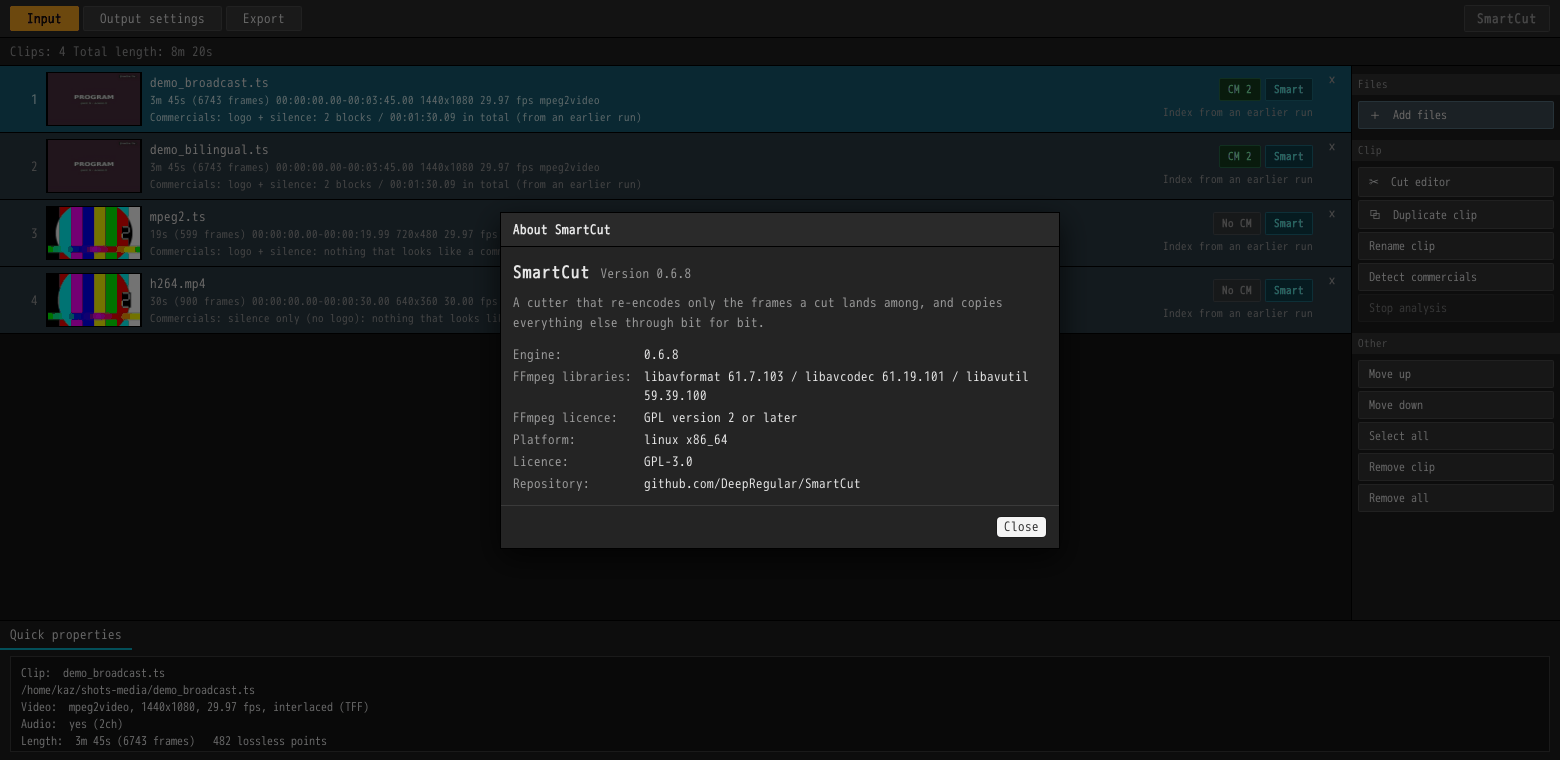
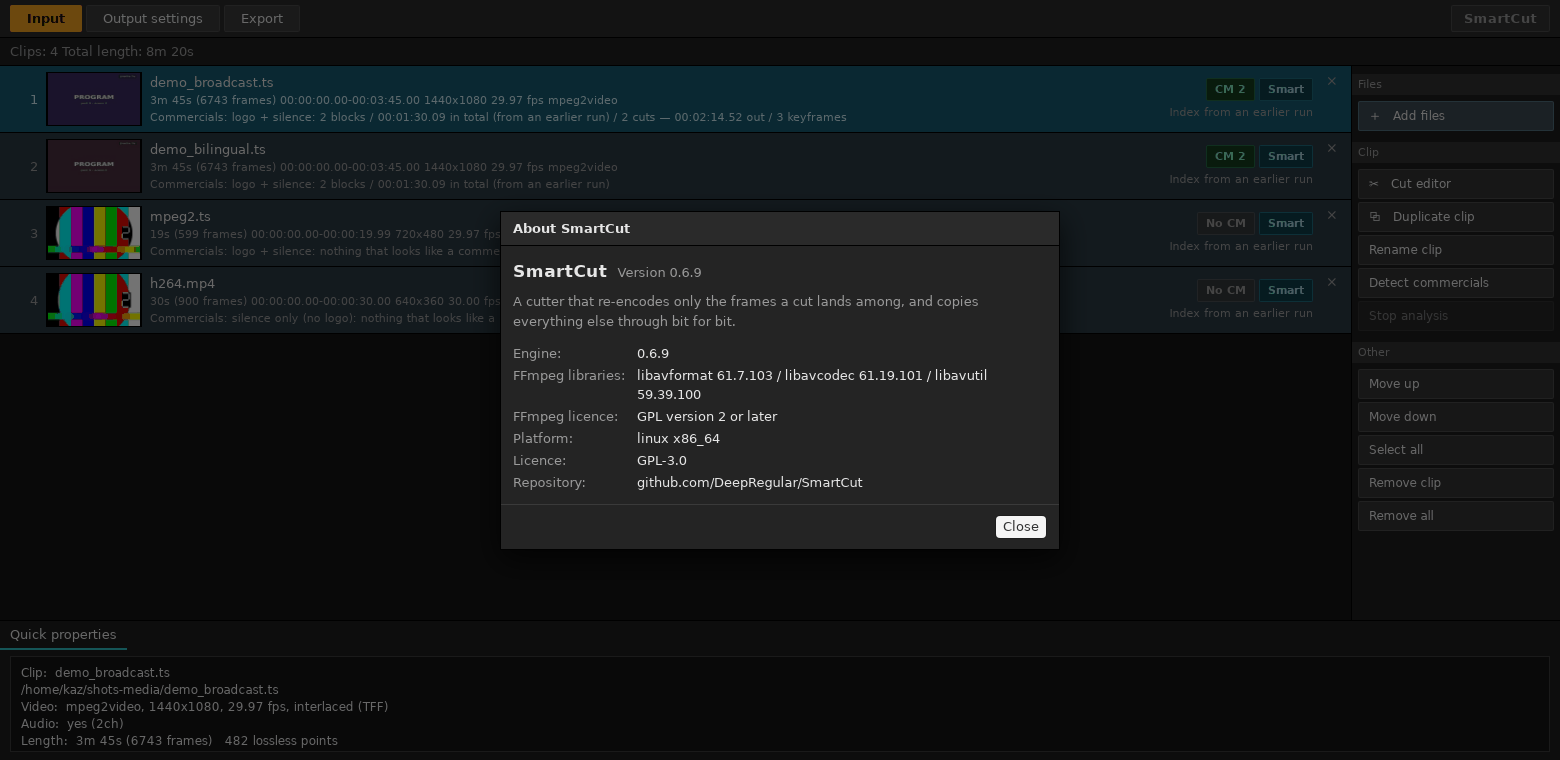
Version 0.6.9
Everything that made the program feel slower than it is. A cut of a `.ts` is
written twice -- the muxer writes it, then the pass that puts the broadcast's
own tables back reads all of it and writes all of it again -- and the second
pass had never said so: **twenty-nine per cent of the run, after the run
appeared to be over**. The disc index pass had the same fault for three
quarters of its work, where the arrival times are written and nothing was
reported at all.

Then the other direction. Writing a disc image said something every megabyte,
which on a 20 GB disc is twenty thousand messages for a bar with a hundred
steps; the pass that reads a stream back for its entry points counted packets
rather than bytes and managed five reports in 617 MB. How often a pass says
where it is is now one rule for all of them, and the output screen stops
rebuilding its whole row list for a report that rounds to the percent already
on screen.

And three about what a window is asked to carry. Playback sent every picture as
an event, which means JSON, which means base64: 4 MB/s of text thirty times a
second. A film strip refresh was thirty cells of the same, four times a second
while somebody drags. The pictures go as bytes now -- a channel for playback, a
scheme of their own for the strip and the stage. And seven commands that
touched paths somebody chose have come off the thread the window is drawn on,
where dropping a folder on a sleeping share froze it until the share woke up.
[…]

diff --git a/docs/technical/distribution.md b/docs/technical/distribution.md
@@ -7,7 +7,7 @@
 ```bash
 cargo install tauri-cli --version ^2 --locked   # once
 cd gui/src-tauri && NO_STRIP=1 cargo tauri build --bundles appimage
-# -> target/release/bundle/appimage/SmartCut_0.6.8_amd64.AppImage
+# -> target/release/bundle/appimage/SmartCut_0.6.9_amd64.AppImage
 ```
 
 The artifact is **185 MB and carries all 745 shared libraries**. WebKitGTK 4.1 is in
@@ -50,7 +50,7 @@ make things *more* fragile across environments, so the exclusion stays. What is 
 can be checked by extracting:
 
 ```bash
-./SmartCut_0.6.8_amd64.AppImage --appimage-extract >/dev/null
+./SmartCut_0.6.9_amd64.AppImage --appimage-extract >/dev/null
 ldd squashfs-root/usr/bin/smartcut | grep -E 'asound|jack|pulse'
 # libasound.so.2 / libjack.so.0 -> /lib/x86_64-linux-gnu/...   (system)
 # libpulse.so.0                 -> squashfs-root/usr/bin/../lib/...  (bundled)
@@ -75,8 +75,8 @@ errors and no panics.
 
 ```bash
 ./gui/build-linux.sh
-# -> gui/src-tauri/target/release/bundle/linux/SmartCut-0.6.8-linux-x86_64.tar.gz
-# -> gui/src-tauri/target/release/bundle/linux/smartcut_0.6.8_amd64.deb
+# -> gui/src-tauri/target/release/bundle/linux/SmartCut-0.6.9-linux-x86_64.tar.gz
+# -> gui/src-tauri/target/release/bundle/linux/smartcut_0.6.9_amd64.deb
 ```
 
 Two ways of packing the same build. Both install **the GUI as `smartcut` and the
@@ -87,13 +87,13 @@ The cargo crate is named `gui`, so left alone Tauri installs it straight to
 `/usr/bin/gui` — not a name anyone should be occupying. `mainBinaryName` in
 `tauri.conf.json` pins it to `smartcut` (since 0.2.0; before that it was set for Windows
 only). The bundle *files* Tauri writes are named after `productName` instead —
-`SmartCut_0.6.8_amd64.deb` and the like — which is why they and the deb's package name
+`SmartCut_0.6.9_amd64.deb` and the like — which is why they and the deb's package name
 `smartcut` differ. `build-linux.sh` reads both out of `tauri.conf.json`.
 
 | Artifact | Size | FFmpeg | Requires |
 |---|---|---|---|
-| `SmartCut-0.6.8-linux-x86_64.tar.gz` | 209.9 MB | Bundled | glibc 2.39 or newer. No FUSE needed |
-| `smartcut_0.6.8_amd64.deb` | 4.0 MB | Uses the system's | FFmpeg 7.1 (Debian 13 / Ubuntu 25.04 and later) |
+| `SmartCut-0.6.9-linux-x86_64.tar.gz` | 209.9 MB | Bundled | glibc 2.39 or newer. No FUSE needed |
+| `smartcut_0.6.9_amd64.deb` | 4.0 MB | Uses the system's | FFmpeg 7.1 (Debian 13 / Ubuntu 25.04 and later) |
 
 **The tar.gz contains the same AppDir as the AppImage, extracted.** The 745 libraries
 linuxdeploy gathered by following `ldd` sit in `app/` as they are, `./smartcut` is a
@@ -143,7 +143,7 @@ Cross-built from the Linux development VM to `x86_64-pc-windows-msvc`.
 
 ```bash
 ./gui/build-windows.sh
-# -> gui/src-tauri/target/x86_64-pc-windows-msvc/release/bundle/nsis/SmartCut_0.6.8_x64-setup.exe
+# -> gui/src-tauri/target/x86_64-pc-windows-msvc/release/bundle/nsis/SmartCut_0.6.9_x64-setup.exe
 # -> gui/src-tauri/target/x86_64-pc-windows-msvc/release/bundle/portable/smartcut-portable-x64.zip
 ```
 

diff --git a/README.md b/README.md
@@ -124,11 +124,11 @@ install.
 
 | Platform | File | Notes |
 |---|---|---|
-| **Linux** | `SmartCut_0.6.8_amd64.AppImage` | Make it executable and run it |
-| **Linux** | `SmartCut-0.6.8-linux-x86_64.tar.gz` | Unpack and run `./smartcut`. Use this if you would rather not deal with FUSE |
-| **Linux (Debian/Ubuntu)** | `smartcut_0.6.8_amd64.deb` | `sudo apt install ./smartcut_0.6.8_amd64.deb`. Only 4.0 MB, because it uses the FFmpeg already on your system |
-| **Windows** | `SmartCut_0.6.8_x64-setup.exe` | Installer |
-| **Windows** | `smartcut-portable-x64-0.6.8.zip` | Unzip and run `smartcut.exe` |
+| **Linux** | `SmartCut_0.6.9_amd64.AppImage` | Make it executable and run it |
+| **Linux** | `SmartCut-0.6.9-linux-x86_64.tar.gz` | Unpack and run `./smartcut`. Use this if you would rather not deal with FUSE |
+| **Linux (Debian/Ubuntu)** | `smartcut_0.6.9_amd64.deb` | `sudo apt install ./smartcut_0.6.9_amd64.deb`. Only 4.0 MB, because it uses the FFmpeg already on your system |
+| **Windows** | `SmartCut_0.6.9_x64-setup.exe` | Installer |
+| **Windows** | `smartcut-portable-x64-0.6.9.zip` | Unzip and run `smartcut.exe` |
 
 **Requirements.** The AppImage and the tar.gz need glibc 2.39 or newer, which
 means Ubuntu 24.04, Debian 13, Fedora 40 or later. The `.deb` needs FFmpeg 7.1,
